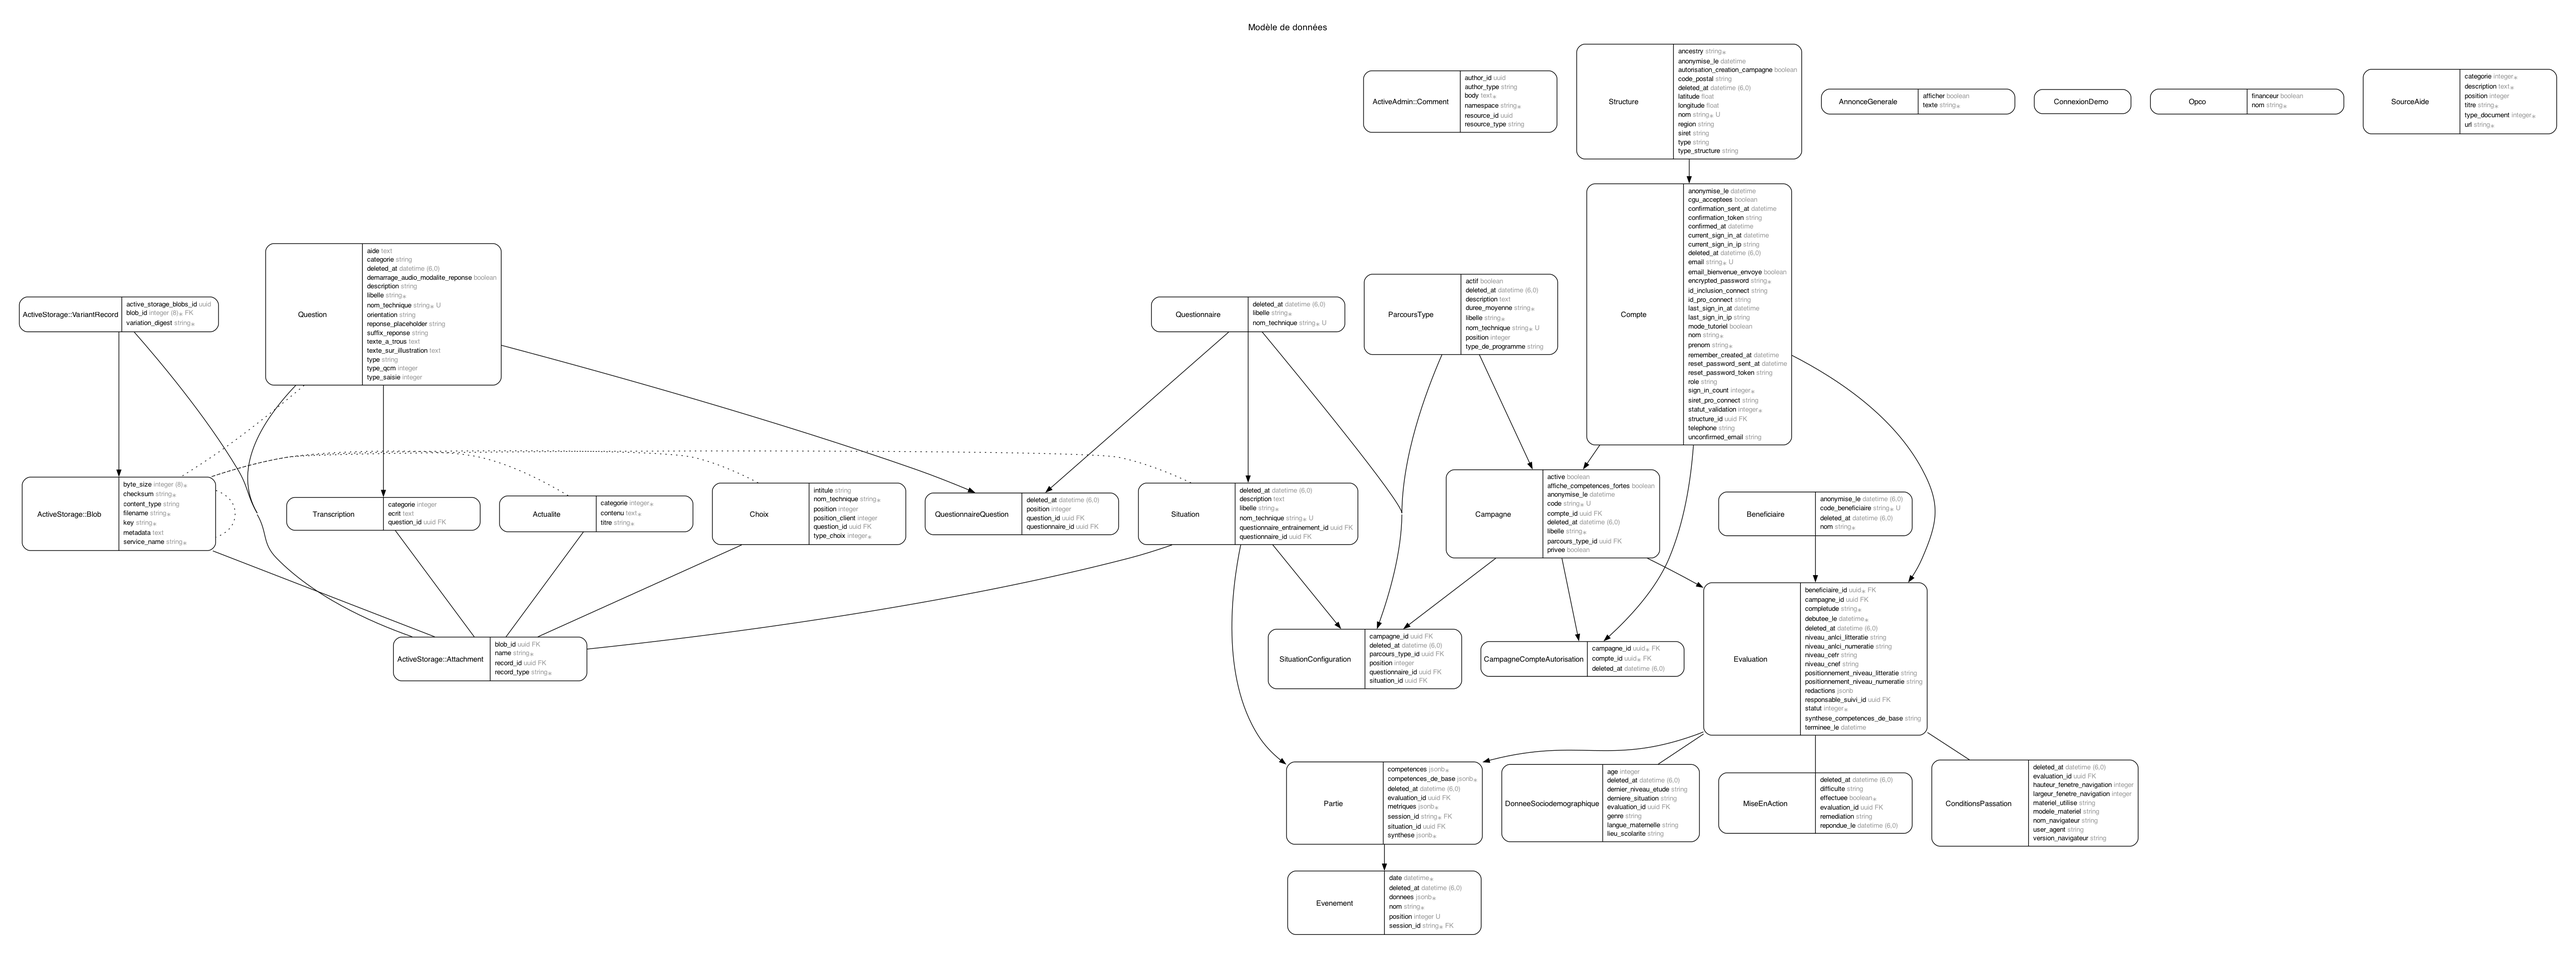
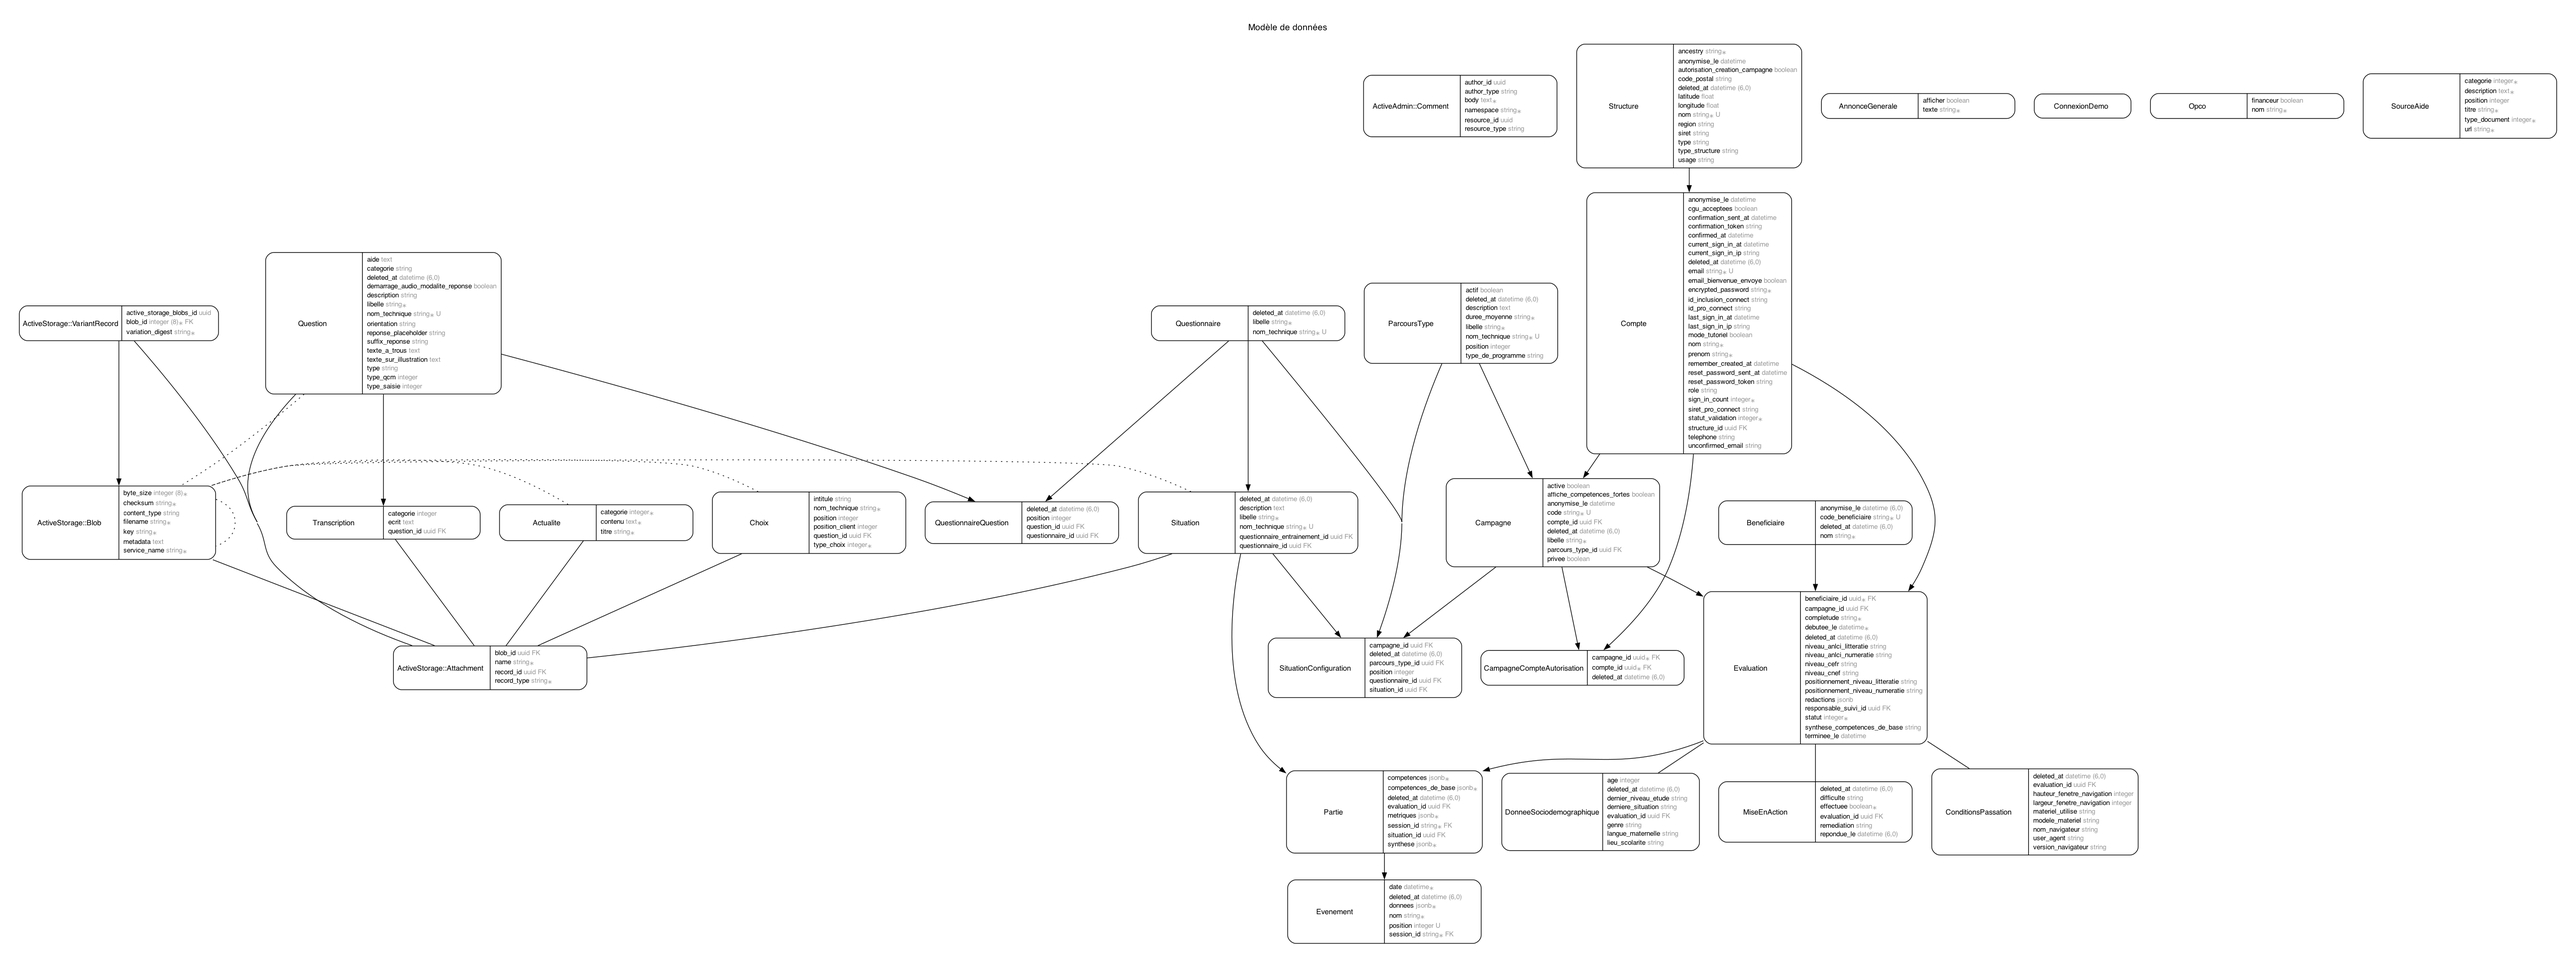
✨ Ajoute la colonne 'usage' à la table 'structures' et met à jour les validations dans le modèle 'StructureLocale'

diff --git a/db/schema.rb b/db/schema.rb
@@ -10,7 +10,7 @@
 #
 # It's strongly recommended that you check this file into your version control system.
 
-ActiveRecord::Schema[7.2].define(version: 2025_10_09_110003) do
+ActiveRecord::Schema[7.2].define(version: 2025_10_10_093557) do
   # These are extensions that must be enabled in order to support this database
   enable_extension "pgcrypto"
   enable_extension "plpgsql"
@@ -20,8 +20,8 @@ ActiveRecord::Schema[7.2].define(version: 2025_10_09_110003) do
     t.text "body"
     t.string "resource_type"
     t.string "author_type"
-    t.datetime "created_at", precision: 6, null: false
-    t.datetime "updated_at", precision: 6, null: false
+    t.datetime "created_at", null: false
+    t.datetime "updated_at", null: false
     t.uuid "resource_id"
     t.uuid "author_id"
     t.index ["author_type", "author_id"], name: "index_active_admin_comments_on_author_type_and_author_id"
@@ -32,7 +32,7 @@ ActiveRecord::Schema[7.2].define(version: 2025_10_09_110003) do
   create_table "active_storage_attachments", id: :uuid, default: -> { "gen_random_uuid()" }, force: :cascade do |t|
     t.string "name", null: false
     t.string "record_type", null: false
-    t.datetime "created_at", null: false
+    t.datetime "created_at", precision: nil, null: false
     t.uuid "blob_id"
     t.uuid "record_id"
     t.index ["blob_id"], name: "index_active_storage_attachments_on_blob_id"
@@ -46,7 +46,7 @@ ActiveRecord::Schema[7.2].define(version: 2025_10_09_110003) do
     t.text "metadata"
     t.bigint "byte_size", null: false
     t.string "checksum", null: false
-    t.datetime "created_at", null: false
+    t.datetime "created_at", precision: nil, null: false
     t.string "service_name", null: false
     t.index ["key"], name: "index_active_storage_blobs_on_key", unique: true
   end
@@ -70,8 +70,8 @@ ActiveRecord::Schema[7.2].define(version: 2025_10_09_110003) do
   create_table "annonce_generales", id: :uuid, default: -> { "gen_random_uuid()" }, force: :cascade do |t|
     t.string "texte"
     t.boolean "afficher"
-    t.datetime "created_at", precision: 6, null: false
-    t.datetime "updated_at", precision: 6, null: false
+    t.datetime "created_at", null: false
+    t.datetime "updated_at", null: false
   end
 
   create_table "beneficiaires", id: :uuid, default: -> { "gen_random_uuid()" }, force: :cascade do |t|
@@ -98,12 +98,12 @@ ActiveRecord::Schema[7.2].define(version: 2025_10_09_110003) do
   create_table "campagnes", id: :uuid, default: -> { "gen_random_uuid()" }, force: :cascade do |t|
     t.string "libelle"
     t.string "code"
-    t.datetime "created_at", null: false
-    t.datetime "updated_at", null: false
+    t.datetime "created_at", precision: nil, null: false
+    t.datetime "updated_at", precision: nil, null: false
     t.uuid "compte_id"
     t.boolean "affiche_competences_fortes", default: true
     t.uuid "parcours_type_id"
-    t.datetime "anonymise_le"
+    t.datetime "anonymise_le", precision: nil
     t.datetime "deleted_at"
     t.boolean "active", default: true
     t.boolean "privee", default: false
@@ -118,8 +118,8 @@ ActiveRecord::Schema[7.2].define(version: 2025_10_09_110003) do
   create_table "choix", id: :uuid, default: -> { "gen_random_uuid()" }, force: :cascade do |t|
     t.string "intitule"
     t.integer "type_choix"
-    t.datetime "created_at", null: false
-    t.datetime "updated_at", null: false
+    t.datetime "created_at", precision: nil, null: false
+    t.datetime "updated_at", precision: nil, null: false
     t.integer "position"
     t.uuid "question_id"
     t.string "nom_technique"
@@ -131,10 +131,10 @@ ActiveRecord::Schema[7.2].define(version: 2025_10_09_110003) do
     t.string "email", default: "", null: false
     t.string "encrypted_password", default: "", null: false
     t.string "reset_password_token"
-    t.datetime "reset_password_sent_at"
-    t.datetime "remember_created_at"
-    t.datetime "created_at", null: false
-    t.datetime "updated_at", null: false
+    t.datetime "reset_password_sent_at", precision: nil
+    t.datetime "remember_created_at", precision: nil
+    t.datetime "created_at", precision: nil, null: false
+    t.datetime "updated_at", precision: nil, null: false
     t.string "role", default: "conseiller"
     t.uuid "structure_id"
     t.integer "statut_validation", default: 0
@@ -142,14 +142,14 @@ ActiveRecord::Schema[7.2].define(version: 2025_10_09_110003) do
     t.string "prenom"
     t.string "telephone"
     t.integer "sign_in_count", default: 0, null: false
-    t.datetime "current_sign_in_at"
-    t.datetime "last_sign_in_at"
+    t.datetime "current_sign_in_at", precision: nil
+    t.datetime "last_sign_in_at", precision: nil
     t.string "current_sign_in_ip"
     t.string "last_sign_in_ip"
-    t.datetime "anonymise_le"
+    t.datetime "anonymise_le", precision: nil
     t.string "confirmation_token"
-    t.datetime "confirmed_at"
-    t.datetime "confirmation_sent_at"
+    t.datetime "confirmed_at", precision: nil
+    t.datetime "confirmation_sent_at", precision: nil
     t.string "unconfirmed_email"
     t.datetime "deleted_at"
     t.boolean "mode_tutoriel", default: true
@@ -208,8 +208,8 @@ ActiveRecord::Schema[7.2].define(version: 2025_10_09_110003) do
     t.datetime "created_at", precision: nil, null: false
     t.datetime "updated_at", precision: nil, null: false
     t.uuid "campagne_id"
-    t.datetime "terminee_le"
-    t.datetime "debutee_le"
+    t.datetime "terminee_le", precision: nil
+    t.datetime "debutee_le", precision: nil
     t.string "synthese_competences_de_base"
     t.string "niveau_cefr"
     t.string "niveau_cnef"
@@ -234,9 +234,9 @@ ActiveRecord::Schema[7.2].define(version: 2025_10_09_110003) do
   create_table "evenements", id: :uuid, default: -> { "gen_random_uuid()" }, force: :cascade do |t|
     t.string "nom"
     t.jsonb "donnees", default: "{}", null: false
-    t.datetime "date"
-    t.datetime "created_at", null: false
-    t.datetime "updated_at", null: false
+    t.datetime "date", precision: nil
+    t.datetime "created_at", precision: nil, null: false
+    t.datetime "updated_at", precision: nil, null: false
     t.string "session_id"
     t.integer "position"
     t.datetime "deleted_at"
@@ -272,8 +272,8 @@ ActiveRecord::Schema[7.2].define(version: 2025_10_09_110003) do
     t.string "libelle"
     t.string "nom_technique"
     t.string "duree_moyenne"
-    t.datetime "created_at", precision: 6, null: false
-    t.datetime "updated_at", precision: 6, null: false
+    t.datetime "created_at", null: false
+    t.datetime "updated_at", null: false
     t.text "description"
     t.string "type_de_programme"
     t.datetime "deleted_at"
@@ -285,8 +285,8 @@ ActiveRecord::Schema[7.2].define(version: 2025_10_09_110003) do
   create_table "parties", id: :uuid, default: -> { "gen_random_uuid()" }, force: :cascade do |t|
     t.string "session_id"
     t.jsonb "metriques", default: {}, null: false
-    t.datetime "created_at", precision: 6, null: false
-    t.datetime "updated_at", precision: 6, null: false
+    t.datetime "created_at", null: false
+    t.datetime "updated_at", null: false
     t.uuid "evaluation_id"
     t.uuid "situation_id"
     t.datetime "deleted_at"
@@ -301,8 +301,8 @@ ActiveRecord::Schema[7.2].define(version: 2025_10_09_110003) do
 
   create_table "questionnaires", id: :uuid, default: -> { "gen_random_uuid()" }, force: :cascade do |t|
     t.string "libelle"
-    t.datetime "created_at", null: false
-    t.datetime "updated_at", null: false
+    t.datetime "created_at", precision: nil, null: false
+    t.datetime "updated_at", precision: nil, null: false
     t.string "nom_technique"
     t.datetime "deleted_at"
     t.index ["deleted_at"], name: "index_questionnaires_on_deleted_at"
@@ -348,8 +348,8 @@ ActiveRecord::Schema[7.2].define(version: 2025_10_09_110003) do
   create_table "situations", id: :uuid, default: -> { "gen_random_uuid()" }, force: :cascade do |t|
     t.string "libelle"
     t.string "nom_technique"
-    t.datetime "created_at", null: false
-    t.datetime "updated_at", null: false
+    t.datetime "created_at", precision: nil, null: false
+    t.datetime "updated_at", precision: nil, null: false
     t.uuid "questionnaire_id"
     t.uuid "questionnaire_entrainement_id"
     t.datetime "deleted_at"
@@ -362,8 +362,8 @@ ActiveRecord::Schema[7.2].define(version: 2025_10_09_110003) do
 
   create_table "situations_configurations", id: :uuid, default: -> { "gen_random_uuid()" }, force: :cascade do |t|
     t.integer "position"
-    t.datetime "created_at", null: false
-    t.datetime "updated_at", null: false
+    t.datetime "created_at", precision: nil, null: false
+    t.datetime "updated_at", precision: nil, null: false
     t.uuid "campagne_id"
     t.uuid "situation_id"
     t.uuid "questionnaire_id"
@@ -381,16 +381,16 @@ ActiveRecord::Schema[7.2].define(version: 2025_10_09_110003) do
     t.string "url"
     t.integer "categorie"
     t.integer "type_document"
-    t.datetime "created_at", precision: 6, null: false
-    t.datetime "updated_at", precision: 6, null: false
+    t.datetime "created_at", null: false
+    t.datetime "updated_at", null: false
     t.integer "position", default: 0
   end
 
   create_table "structures", id: :uuid, default: -> { "gen_random_uuid()" }, force: :cascade do |t|
     t.string "nom"
     t.string "code_postal"
-    t.datetime "created_at", precision: 6, null: false
-    t.datetime "updated_at", precision: 6, null: false
+    t.datetime "created_at", null: false
+    t.datetime "updated_at", null: false
     t.float "latitude"
     t.float "longitude"
     t.string "type_structure"
@@ -401,11 +401,13 @@ ActiveRecord::Schema[7.2].define(version: 2025_10_09_110003) do
     t.string "ancestry", null: false, collation: "C"
     t.string "siret"
     t.boolean "autorisation_creation_campagne", default: true
+    t.string "usage", default: "Eva: bénéficiaires"
     t.index ["ancestry"], name: "index_structures_on_ancestry"
     t.index ["deleted_at"], name: "index_structures_on_deleted_at"
     t.index ["latitude", "longitude"], name: "index_structures_on_latitude_and_longitude"
     t.index ["nom", "code_postal"], name: "index_structures_on_nom_and_code_postal", unique: true, where: "(deleted_at IS NULL)"
     t.index ["type"], name: "index_structures_on_type"
+    t.index ["usage"], name: "index_structures_on_usage"
   end
 
   create_table "transcriptions", id: :uuid, default: -> { "gen_random_uuid()" }, force: :cascade do |t|

diff --git a/app/models/structure_locale.rb b/app/models/structure_locale.rb
@@ -38,10 +38,13 @@ class StructureLocale < Structure
     service_insertion_collectivite: "usagers"
   }.freeze
 
+  USAGE = ["Eva: bénéficiaires", "Eva: entreprises"].freeze
+
   validates :code_postal, :type_structure, presence: true
   validates :type_structure, inclusion: { in: (TYPES_STRUCTURES + [ TYPE_NON_COMMUNIQUE ]) }
   validates :code_postal, numericality: { only_integer: true }, length: { is: 5 },
                           unless: proc { |s| s.code_postal == TYPE_NON_COMMUNIQUE }
+  validates :usage, inclusion: { in: USAGE }
 
   auto_strip_attributes :code_postal, delete_whitespaces: true
 

diff --git a/spec/models/structure_locale_spec.rb b/spec/models/structure_locale_spec.rb
@@ -30,4 +30,8 @@ describe StructureLocale, type: :model do
                             .display_name).to eql('eva - 75012')
     end
   end
+
+  describe '#usage' do
+    it { is_expected.to validate_inclusion_of(:usage).in_array(%w["Eva: bénéficiaires" "Eva: entreprises"]) }
+  end
 end

diff --git a/db/migrate/20251010093557_ajoute_usage_pour_structure_locale.rb b/db/migrate/20251010093557_ajoute_usage_pour_structure_locale.rb
@@ -1,0 +1,8 @@
+class AjouteUsagePourStructureLocale < ActiveRecord::Migration[7.2]
+  USAGE = %w["Eva: bénéficiaires" "Eva: entreprises"].freeze
+
+  def change
+    add_column :structures, :usage, :string, default: "Eva: bénéficiaires"
+    add_index :structures, :usage
+  end
+end
